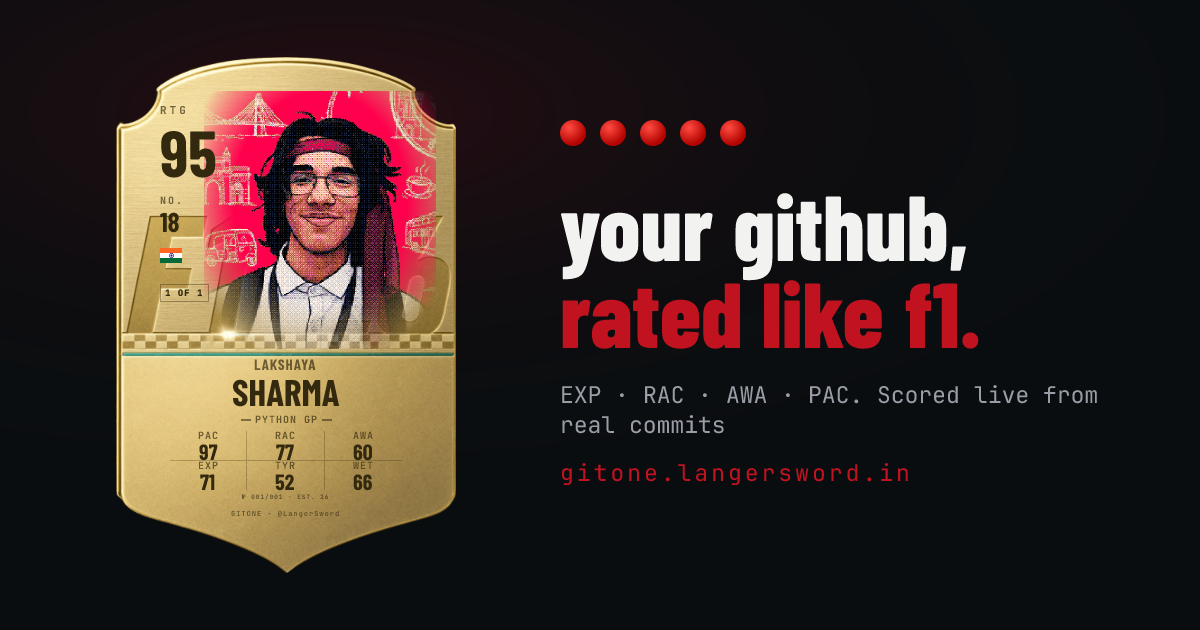
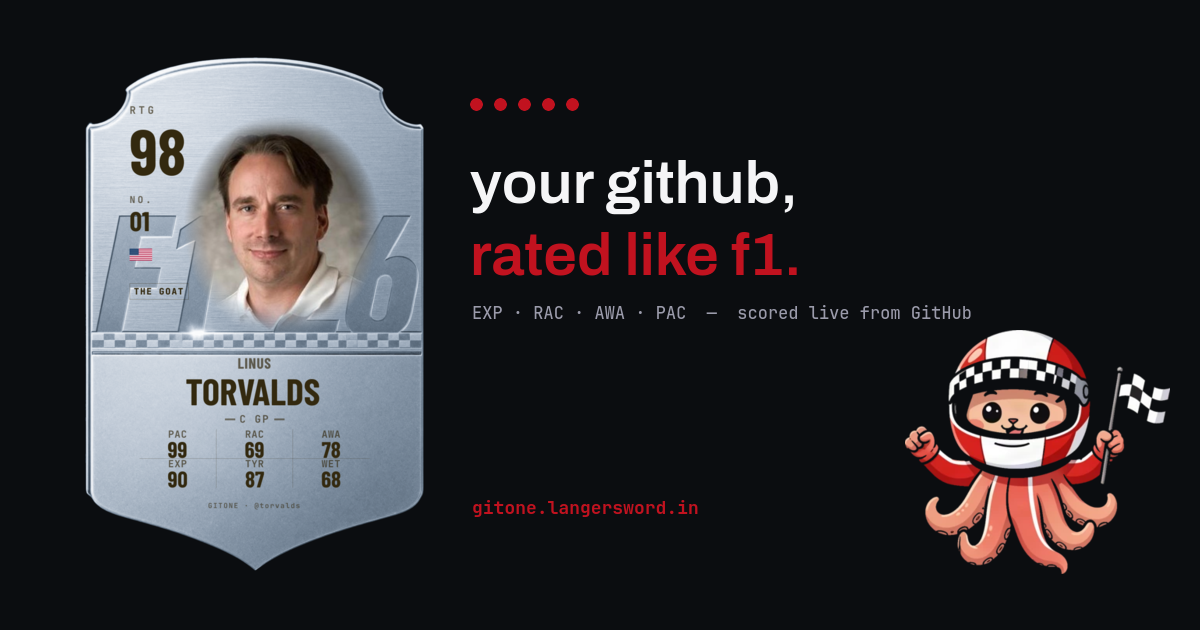
feat(og): mascot + Torvalds card on the site preview
Bake the root unfurl as a static 1200x630 PNG with the GitOne mascot and the GOAT card instead of the founder's card. Fix the PNG chip parity (GOAT label), and bump PNG cache keys so refreshed renders reach embeds and link previews.

diff --git a/lib/og/renderCard26.tsx b/lib/og/renderCard26.tsx
@@ -54,6 +54,9 @@ function textTree(card: Card, assets: Awaited<ReturnType<typeof loadCardAssets>>
   const label = hexAlpha(ink, 0.68);
   const flag = assets.flag ?? flagUrl(card.country, 80);
   const founder = card.finish === "founder" || !!card.founder;
+  const login = card.login.toLowerCase();
+  const goat = !founder && (GOAT_LOGINS.includes(login) || login === GOAT_LOGIN || (card.number === 1 && card.rtg >= 97));
+  const chip = goat ? "THE GOAT" : card.finishLabel;
 
   return (
     <div style={{ width: w, height: H, display: "flex", position: "relative", color: ink }}>
@@ -74,7 +77,7 @@ function textTree(card: Card, assets: Awaited<ReturnType<typeof loadCardAssets>>
       )}
       {/* finish chip */}
       <div style={{ position: "absolute", left: "13%", top: "44%", display: "flex", padding: `${cqw(0.5)}px ${cqw(1.1)}px`, border: `1px solid ${hexAlpha(ink, 0.4)}` }}>
-        <div style={{ display: "flex", fontFamily: "JBMono", fontSize: cqw(2.7), fontWeight: 800, letterSpacing: cqw(0.32), color: ink }}>{card.finishLabel}</div>
+        <div style={{ display: "flex", fontFamily: "JBMono", fontSize: cqw(2.7), fontWeight: 800, letterSpacing: cqw(0.32), color: ink }}>{chip}</div>
       </div>
       {/* name */}
       <div style={{ position: "absolute", left: "10%", width: "80%", top: "58%", display: "flex", flexDirection: "column", alignItems: "center" }}>

diff --git a/app/api/battle-image/[username]/[opponent]/route.tsx b/app/api/battle-image/[username]/[opponent]/route.tsx
@@ -10,7 +10,7 @@ export const runtime = "nodejs";
 // Satori render is what trips the Workers CPU limit (CF 1102).
 export async function GET(_req: Request, { params }: { params: Promise<{ username: string; opponent: string }> }) {
   const { username, opponent } = await params;
-  return cachedPng(`poster:v9:${username.toLowerCase()}/${opponent.toLowerCase()}`, async () => {
+  return cachedPng(`poster:v10:${username.toLowerCase()}/${opponent.toLowerCase()}`, async () => {
     try {
       const [a, b] = await Promise.all([scoutCard(username), scoutCard(opponent)]);
       return await renderBattleImage(a, b);

diff --git a/app/[username]/vs/[opponent]/opengraph-image.tsx b/app/[username]/vs/[opponent]/opengraph-image.tsx
@@ -13,7 +13,7 @@ export const contentType = "image/png";
 
 export default async function Image({ params }: { params: Promise<{ username: string; opponent: string }> }) {
   const { username, opponent } = await params;
-  return cachedPng(`poster:v9:${username.toLowerCase()}/${opponent.toLowerCase()}`, async () => {
+  return cachedPng(`poster:v10:${username.toLowerCase()}/${opponent.toLowerCase()}`, async () => {
     try {
       const [a, b] = await Promise.all([scoutCard(username), scoutCard(opponent)]);
       return await renderBattleImage(a, b);

diff --git a/app/[username]/opengraph-image.tsx b/app/[username]/opengraph-image.tsx
@@ -20,7 +20,7 @@ const BG = "#0b0d10";
 // "no preview". KV-cache the PNG — repeats never render again.
 export default async function OgImage({ params }: { params: Promise<{ username: string }> }) {
   const { username } = await params;
-  return cachedPng(`og:v5:${username.toLowerCase()}`, () => buildOg(username));
+  return cachedPng(`og:v6:${username.toLowerCase()}`, () => buildOg(username));
 }
 
 async function buildOg(username: string): Promise<Response> {

diff --git a/app/api/card-image/[username]/route.tsx b/app/api/card-image/[username]/route.tsx
@@ -26,7 +26,7 @@ export async function GET(req: Request, { params }: { params: Promise<{ username
   // Pinned variants (README flags / team liveries) cache under their own key
   // so they never evict the plain embed.
   const lower = username.toLowerCase();
-  const cacheKey = `cardpng:v5:${lower}:${override ?? ""}:${teamCode ?? ""}`;
+  const cacheKey = `cardpng:v6:${lower}:${override ?? ""}:${teamCode ?? ""}`;
 
   return cachedPng(
     cacheKey,
